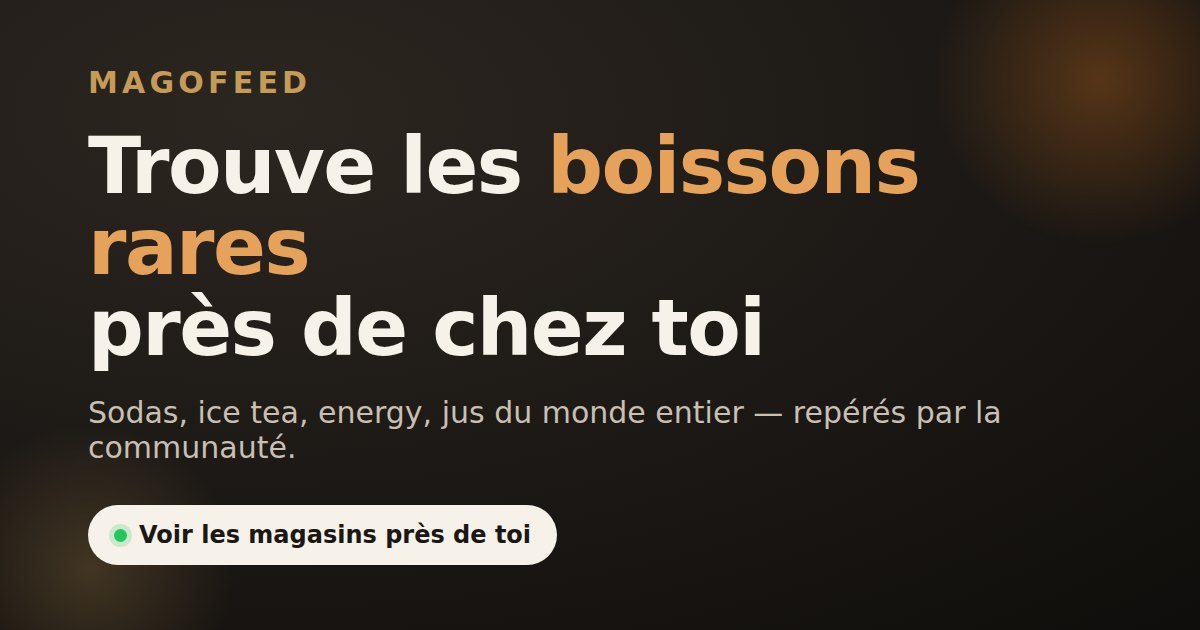
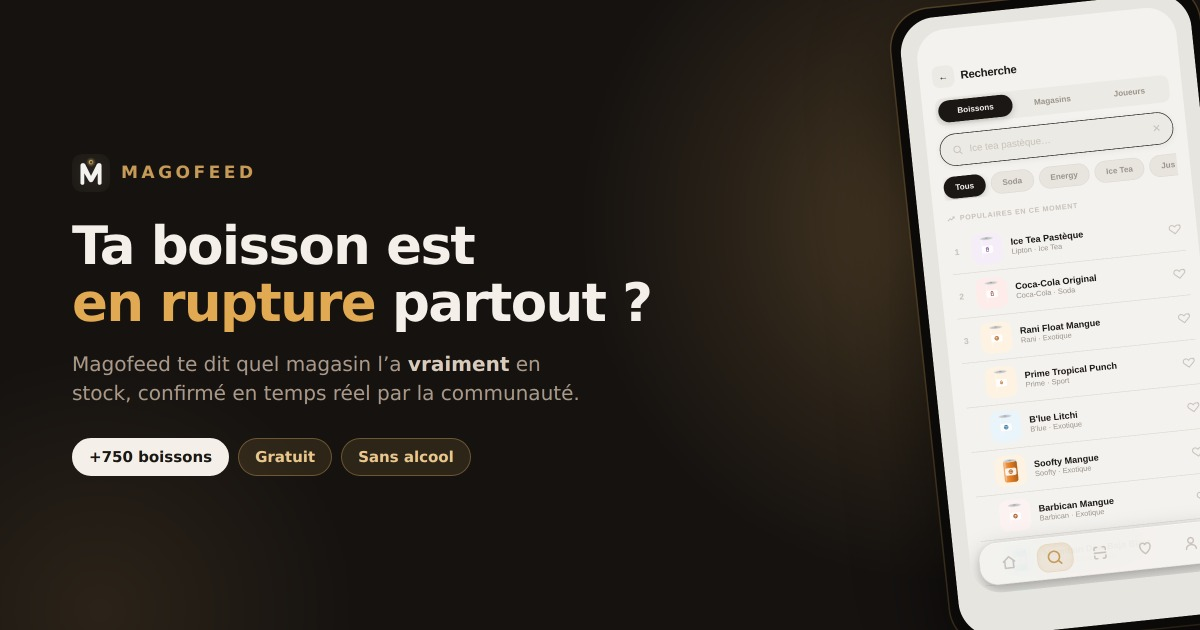
L'image de partage montre enfin l'app, et l'accroche nomme le probleme
Le lien colle dans un serveur Discord n'avait rien pour donner envie de
cliquer : une image entierement faite de TEXTE, dans un rectangle sombre. Aucune
boisson, aucun bout d'application, rien qui prouve qu'il y a un produit derriere.
A la taille ou Discord affiche une vignette, ca ressemble a une banniere de
startup generique.

CE QUI CHANGE
- Un telephone montre l'ecran de recherche, incline et debordant a droite :
  on voit de vraies boissons, de vrais noms, une vraie interface.
- L'accroche passe de « Trouve les boissons rares pres de chez toi » — qui
  decrit une categorie — a « Ta boisson est en rupture partout ? », qui nomme
  la frustration. C'est la formule de la fiche store du projet, deja ecrite et
  deja validee ; elle n'avait juste jamais atteint l'image.
- Trois pastilles de preuve : +750 boissons, Gratuit, Sans alcool. Le chiffre
  est verifie, pas arrondi a la louche : 683 dans data/drinks.js + 68 fiches
  Firestore = 751.

LA COUPURE DU TITRE EST MAITRISEE, PAS SUBIE. Les deux premieres versions
laissaient un orphelin en troisieme ligne (« toi ? » seul, puis « partout ? »
seul). La taille est desormais calee pour que le titre tienne en DEUX lignes
equilibrees et le sous-titre en deux aussi — verifie en mesurant la hauteur
rendue divisee par la hauteur de ligne, pas a l'oeil.

RENDU EN DEUX TEMPS pour que le texte reste net : capture en 2x puis reduction
a 1200x630 dans un canvas avec lissage de qualite. Un rendu direct en 1x
[…]

diff --git a/promo/og-card.html b/promo/og-card.html
@@ -1,0 +1,44 @@
+<!doctype html><html><head><meta charset="utf-8"><style>
+@import url('https://fonts.googleapis.com/css2?family=Space+Grotesk:wght@500;700&display=swap');
+*{margin:0;padding:0;box-sizing:border-box}
+body{width:1200px;height:630px;overflow:hidden;font-family:'Space Grotesk',system-ui,sans-serif;
+  background:#151210;position:relative}
+/* Lueur doree en haut a droite, derriere le telephone : donne du relief sans
+   distraire du texte. */
+.glow{position:absolute;right:-120px;top:-160px;width:760px;height:760px;border-radius:50%;
+  background:radial-gradient(circle,rgba(198,154,87,.30) 0%,rgba(198,154,87,.10) 42%,transparent 68%)}
+.glow2{position:absolute;left:-180px;bottom:-260px;width:560px;height:560px;border-radius:50%;
+  background:radial-gradient(circle,rgba(198,154,87,.13) 0%,transparent 66%)}
+.wrap{position:relative;height:100%;display:flex;align-items:center;padding:0 0 0 72px}
+.left{width:648px;flex-shrink:0}
+.brand{display:flex;align-items:center;gap:11px;margin-bottom:26px}
+.brand img{width:38px;height:38px;border-radius:10px}
+.brand span{font-size:17px;font-weight:700;letter-spacing:3.5px;color:#c69a57}
+h1{font-size:53px;line-height:1.08;font-weight:700;color:#f4f0e9;letter-spacing:-1.6px}
+h1 em{font-style:normal;color:#e0a952}
+p{margin-top:18px;font-size:20px;line-height:1.45;font-weight:500;color:#a99madjust}
+p{color:#a9998a;max-width:530px}
+.chips{display:flex;gap:9px;margin-top:30px}
+.chip{padding:9px 16px;border-radius:999px;font-size:15px;font-weight:700;
+  background:rgba(198,154,87,.14);border:1px solid rgba(198,154,87,.42);color:#e8c78e}
+.chip.plein{background:#f4f0e9;border-color:#f4f0e9;color:#1a1714}
+/* Le telephone : legerement incline et debordant a droite, pour qu'on sente
+   qu'il y a une VRAIE app derriere, sans en montrer trop. */
+.phone{position:absolute;right:-30px;top:50%;transform:translateY(-50%) rotate(-6deg);
+  width:310px;height:640px;border-radius:40px;background:#0c0a08;padding:9px;
+  box-shadow:0 34px 80px rgba(0,0,0,.6),0 0 0 1.5px rgba(198,154,87,.30)}
+.phone img{width:100%;height:100%;object-fit:cover;object-position:top center;border-radius:36px;display:block}
+</style></head><body>
+<div class="glow"></div><div class="glow2"></div>
+<div class="wrap"><div class="left">
+  <div class="brand"><img src="icon-512.png"><span>MAGOFEED</span></div>
+  <h1>Ta boisson est<br><em>en rupture</em> partout&nbsp;?</h1>
+  <p>Magofeed te dit quel magasin l’a <b style="color:#d9cbbb;font-weight:700">vraiment</b> en stock, confirmé en temps réel par la communauté.</p>
+  <div class="chips">
+    <span class="chip plein">+750 boissons</span>
+    <span class="chip">Gratuit</span>
+    <span class="chip">Sans alcool</span>
+  </div>
+</div></div>
+<div class="phone"><img src="2-recherche.png"></div>
+</body></html>

diff --git a/index.html b/index.html
@@ -51,21 +51,22 @@ window.__MAGOFEED_COPYRIGHT__ = "© 2026 Magofeed — Tous droits réservés";
 })();
 </script>
 <meta name="viewport" content="width=device-width,initial-scale=1,maximum-scale=1,viewport-fit=cover">
-<title>Magofeed — Trouve ta boisson dans les magasins proches</title>
-<meta name="description" content="Localise en un instant les sodas, ice tea, energy drinks et jus disponibles dans les magasins autour de toi, grâce à une communauté qui confirme le stock en temps réel.">
+<title>Ta boisson est en rupture partout ? Magofeed te dit qui l'a.</title>
+<meta name="description" content="Sodas, ice tea, energy, boissons rares : vois quel magasin autour de toi l'a vraiment en stock, confirmé en temps réel par la communauté. Gratuit, sans alcool, +750 boissons.">
 
 <!-- Partage social (Open Graph / Twitter Card) -->
 <meta property="og:type" content="website">
 <meta property="og:site_name" content="Magofeed">
-<meta property="og:title" content="Magofeed — Trouve ta boisson dans les magasins proches">
-<meta property="og:description" content="Localise en un instant les sodas, ice tea, energy drinks et jus disponibles dans les magasins autour de toi, grâce à une communauté qui confirme le stock en temps réel.">
+<meta property="og:title" content="Ta boisson est en rupture partout ? Magofeed te dit qui l'a.">
+<meta property="og:description" content="Sodas, ice tea, energy, boissons rares : vois quel magasin autour de toi l'a vraiment en stock, confirmé en temps réel par la communauté. Gratuit, sans alcool, +750 boissons.">
 <meta property="og:image" content="https://magonyos991-ux.github.io/magofeed/icons/og-share.jpg">
 <meta property="og:image:width" content="1200">
 <meta property="og:image:height" content="630">
+<meta property="og:image:alt" content="Magofeed : « Ta boisson est en rupture partout ? » — l'app qui montre quel magasin l'a en stock autour de toi.">
 <meta property="og:url" content="https://magonyos991-ux.github.io/magofeed/">
 <meta name="twitter:card" content="summary_large_image">
-<meta name="twitter:title" content="Magofeed — Trouve ta boisson dans les magasins proches">
-<meta name="twitter:description" content="Localise en un instant les sodas, ice tea, energy drinks et jus disponibles dans les magasins autour de toi.">
+<meta name="twitter:title" content="Ta boisson est en rupture partout ? Magofeed te dit qui l'a.">
+<meta name="twitter:description" content="Sodas, ice tea, energy, boissons rares : vois quel magasin autour de toi l'a vraiment en stock, confirmé en temps réel par la communauté. Gratuit, sans alcool, +750 boissons.">
 <meta name="twitter:image" content="https://magonyos991-ux.github.io/magofeed/icons/og-share.jpg">
 
 <!-- PWA -->
